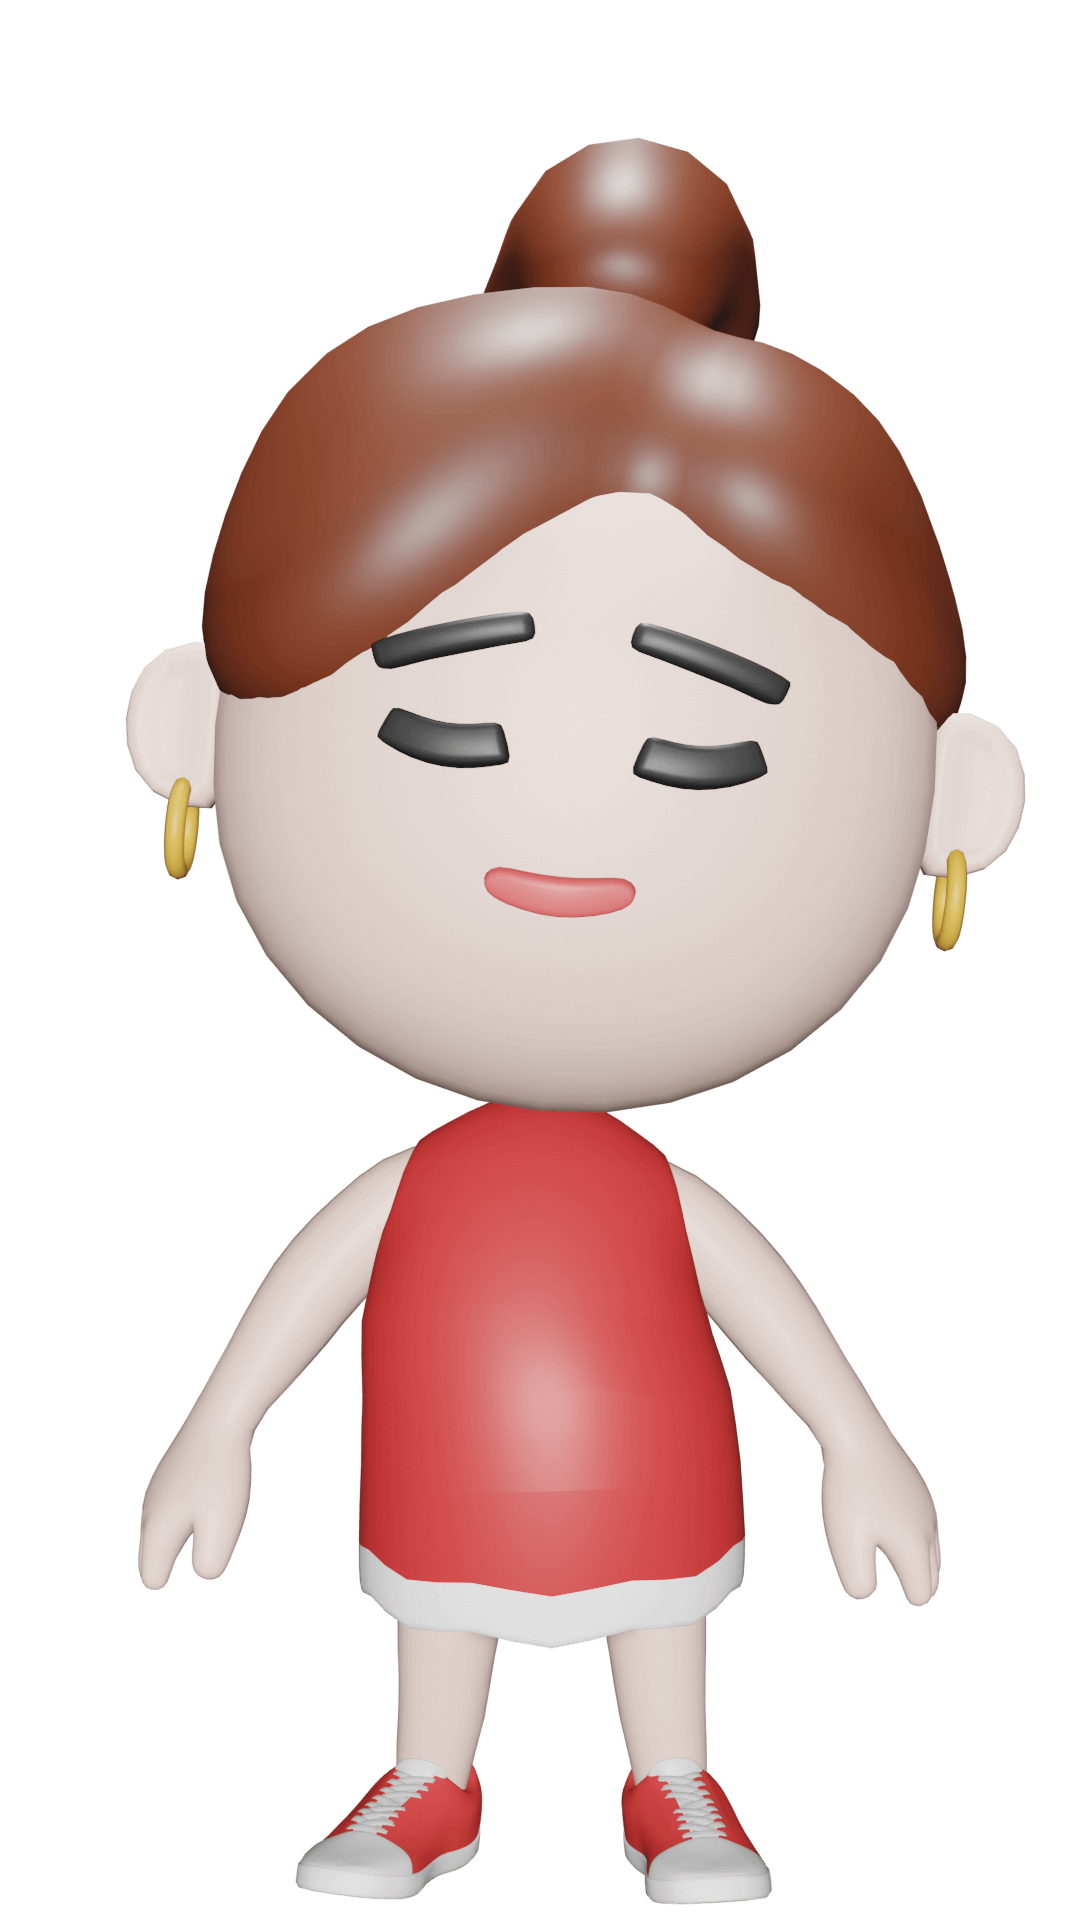
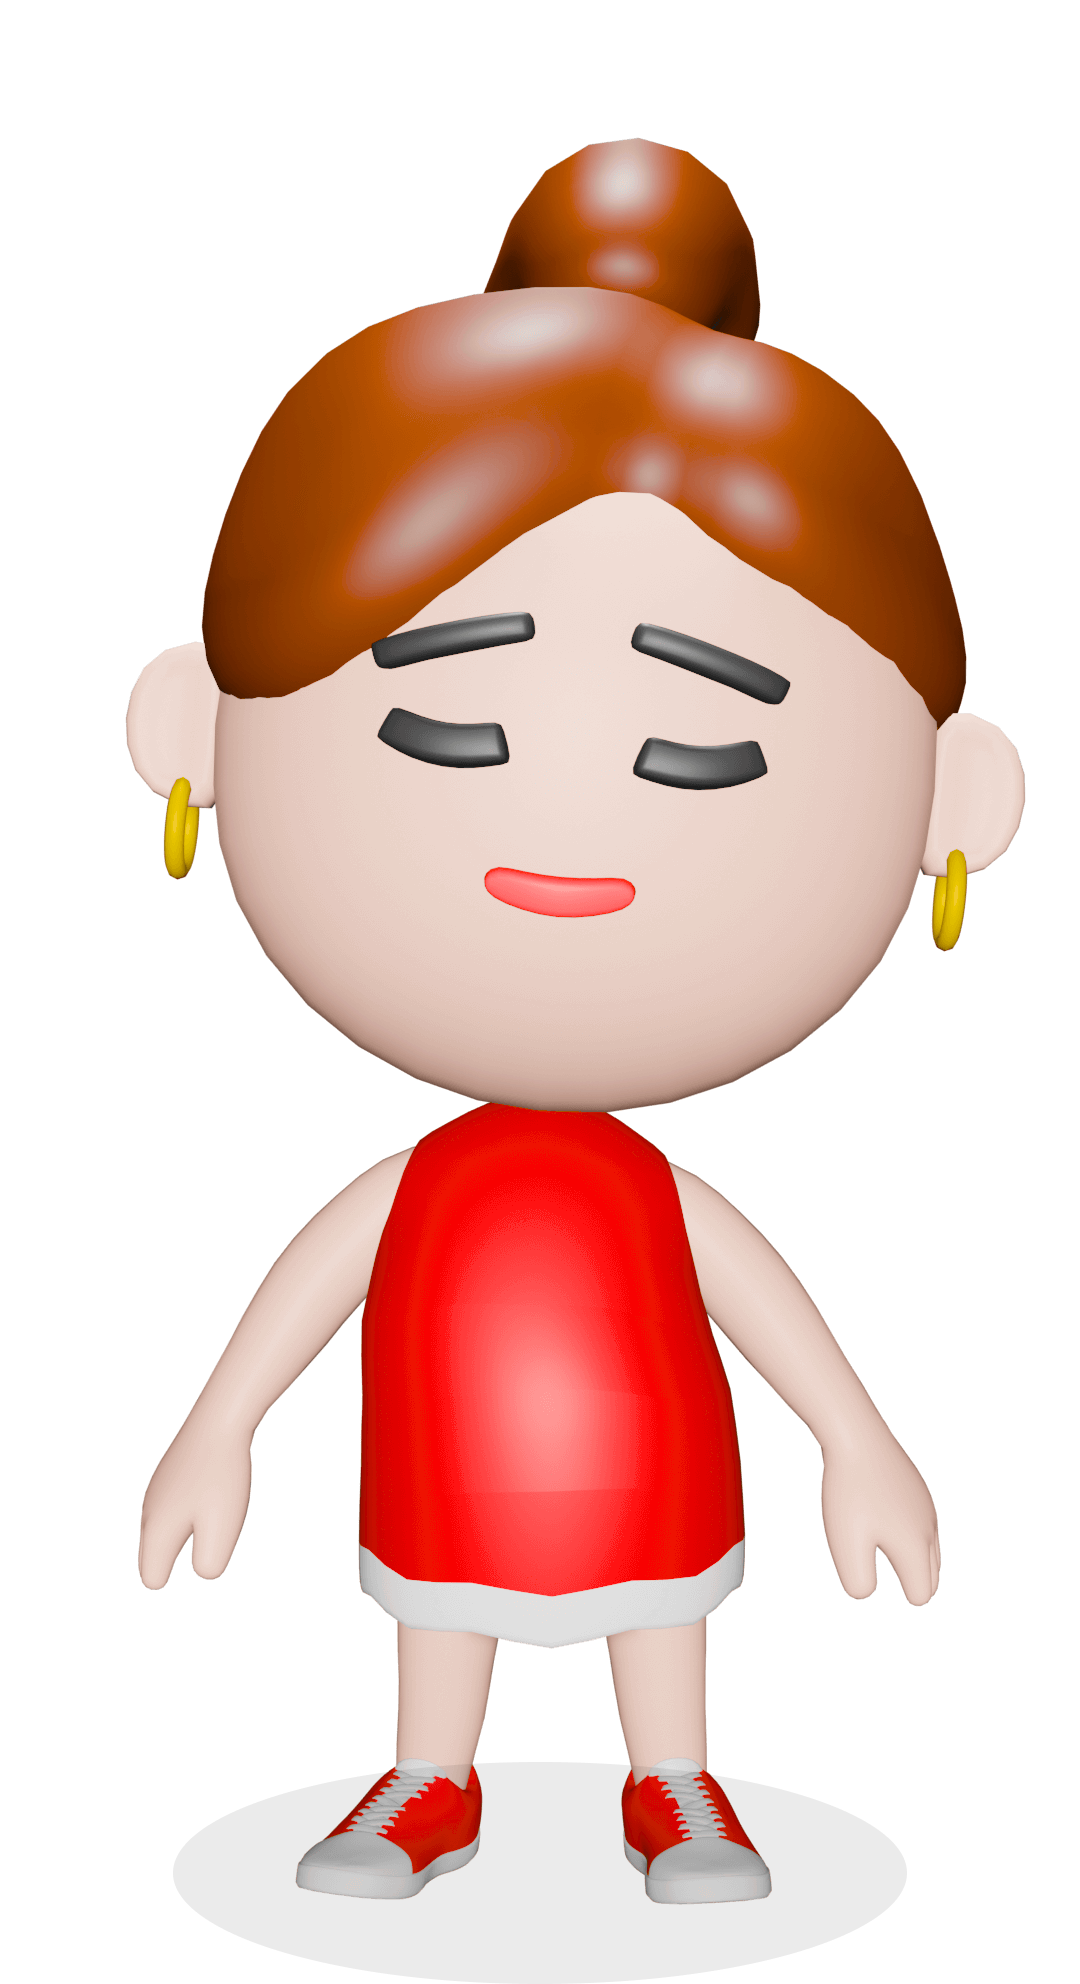
FIX: 로그인 페이지 애니메이션 추가, 캐릭터 이미지 변경

Changed region(s): [[0.1222, 0.0625, 0.9472, 1.0], [0.4278, 0.4375, 0.6111, 0.5]]

diff --git a/frontend/src/components/Login/Login.module.css b/frontend/src/components/Login/Login.module.css
@@ -1,3 +1,15 @@
+/* 로고 기울기 애니메이션 */
+@keyframes tilt {
+  0%, 100% { transform: rotate(-3deg); }
+  50% { transform: rotate(3deg); }
+}
+
+/* 슬로건 크기 변화 애니메이션 */
+@keyframes pulsate {
+  0%, 100% { transform: scale(1); }
+  50% { transform: scale(1.05); }
+}
+
 .container {
   display: flex;
   flex-direction: column;
@@ -19,11 +31,13 @@
   flex-direction: column;
   align-items: center;
 }
-.logo img{
+
+.logo img {
   margin-top: 10px;
+  animation: tilt 2s ease-in-out infinite;
 }
 
-.slogan{
+.slogan {
   position: absolute;
   /* width: 90%; */
   top: 43%;

diff --git a/frontend/src/components/Login/Login.jsx b/frontend/src/components/Login/Login.jsx
@@ -21,12 +21,11 @@ const Login = () => {
 
   return (
     <div className={styles.container}>
-      {/* <div id="matterCanvasCon">
-        <LoginMatter />
-      </div> */}
       <div className={styles.logo}>
-        <img src={`${urlPath}/assets/images/logo.png`} alt="" />
-        <img src={`${urlPath}/assets/images/slogun.png`}/>
+        <img src={`${urlPath}/assets/images/logo.png`} alt="로고" />
+      </div>
+      <div className={styles.slogan}>
+        <img src={`${urlPath}/assets/images/slogun.png`} alt="슬로건"/>
       </div>
 
       <div className={styles.buttons}>
